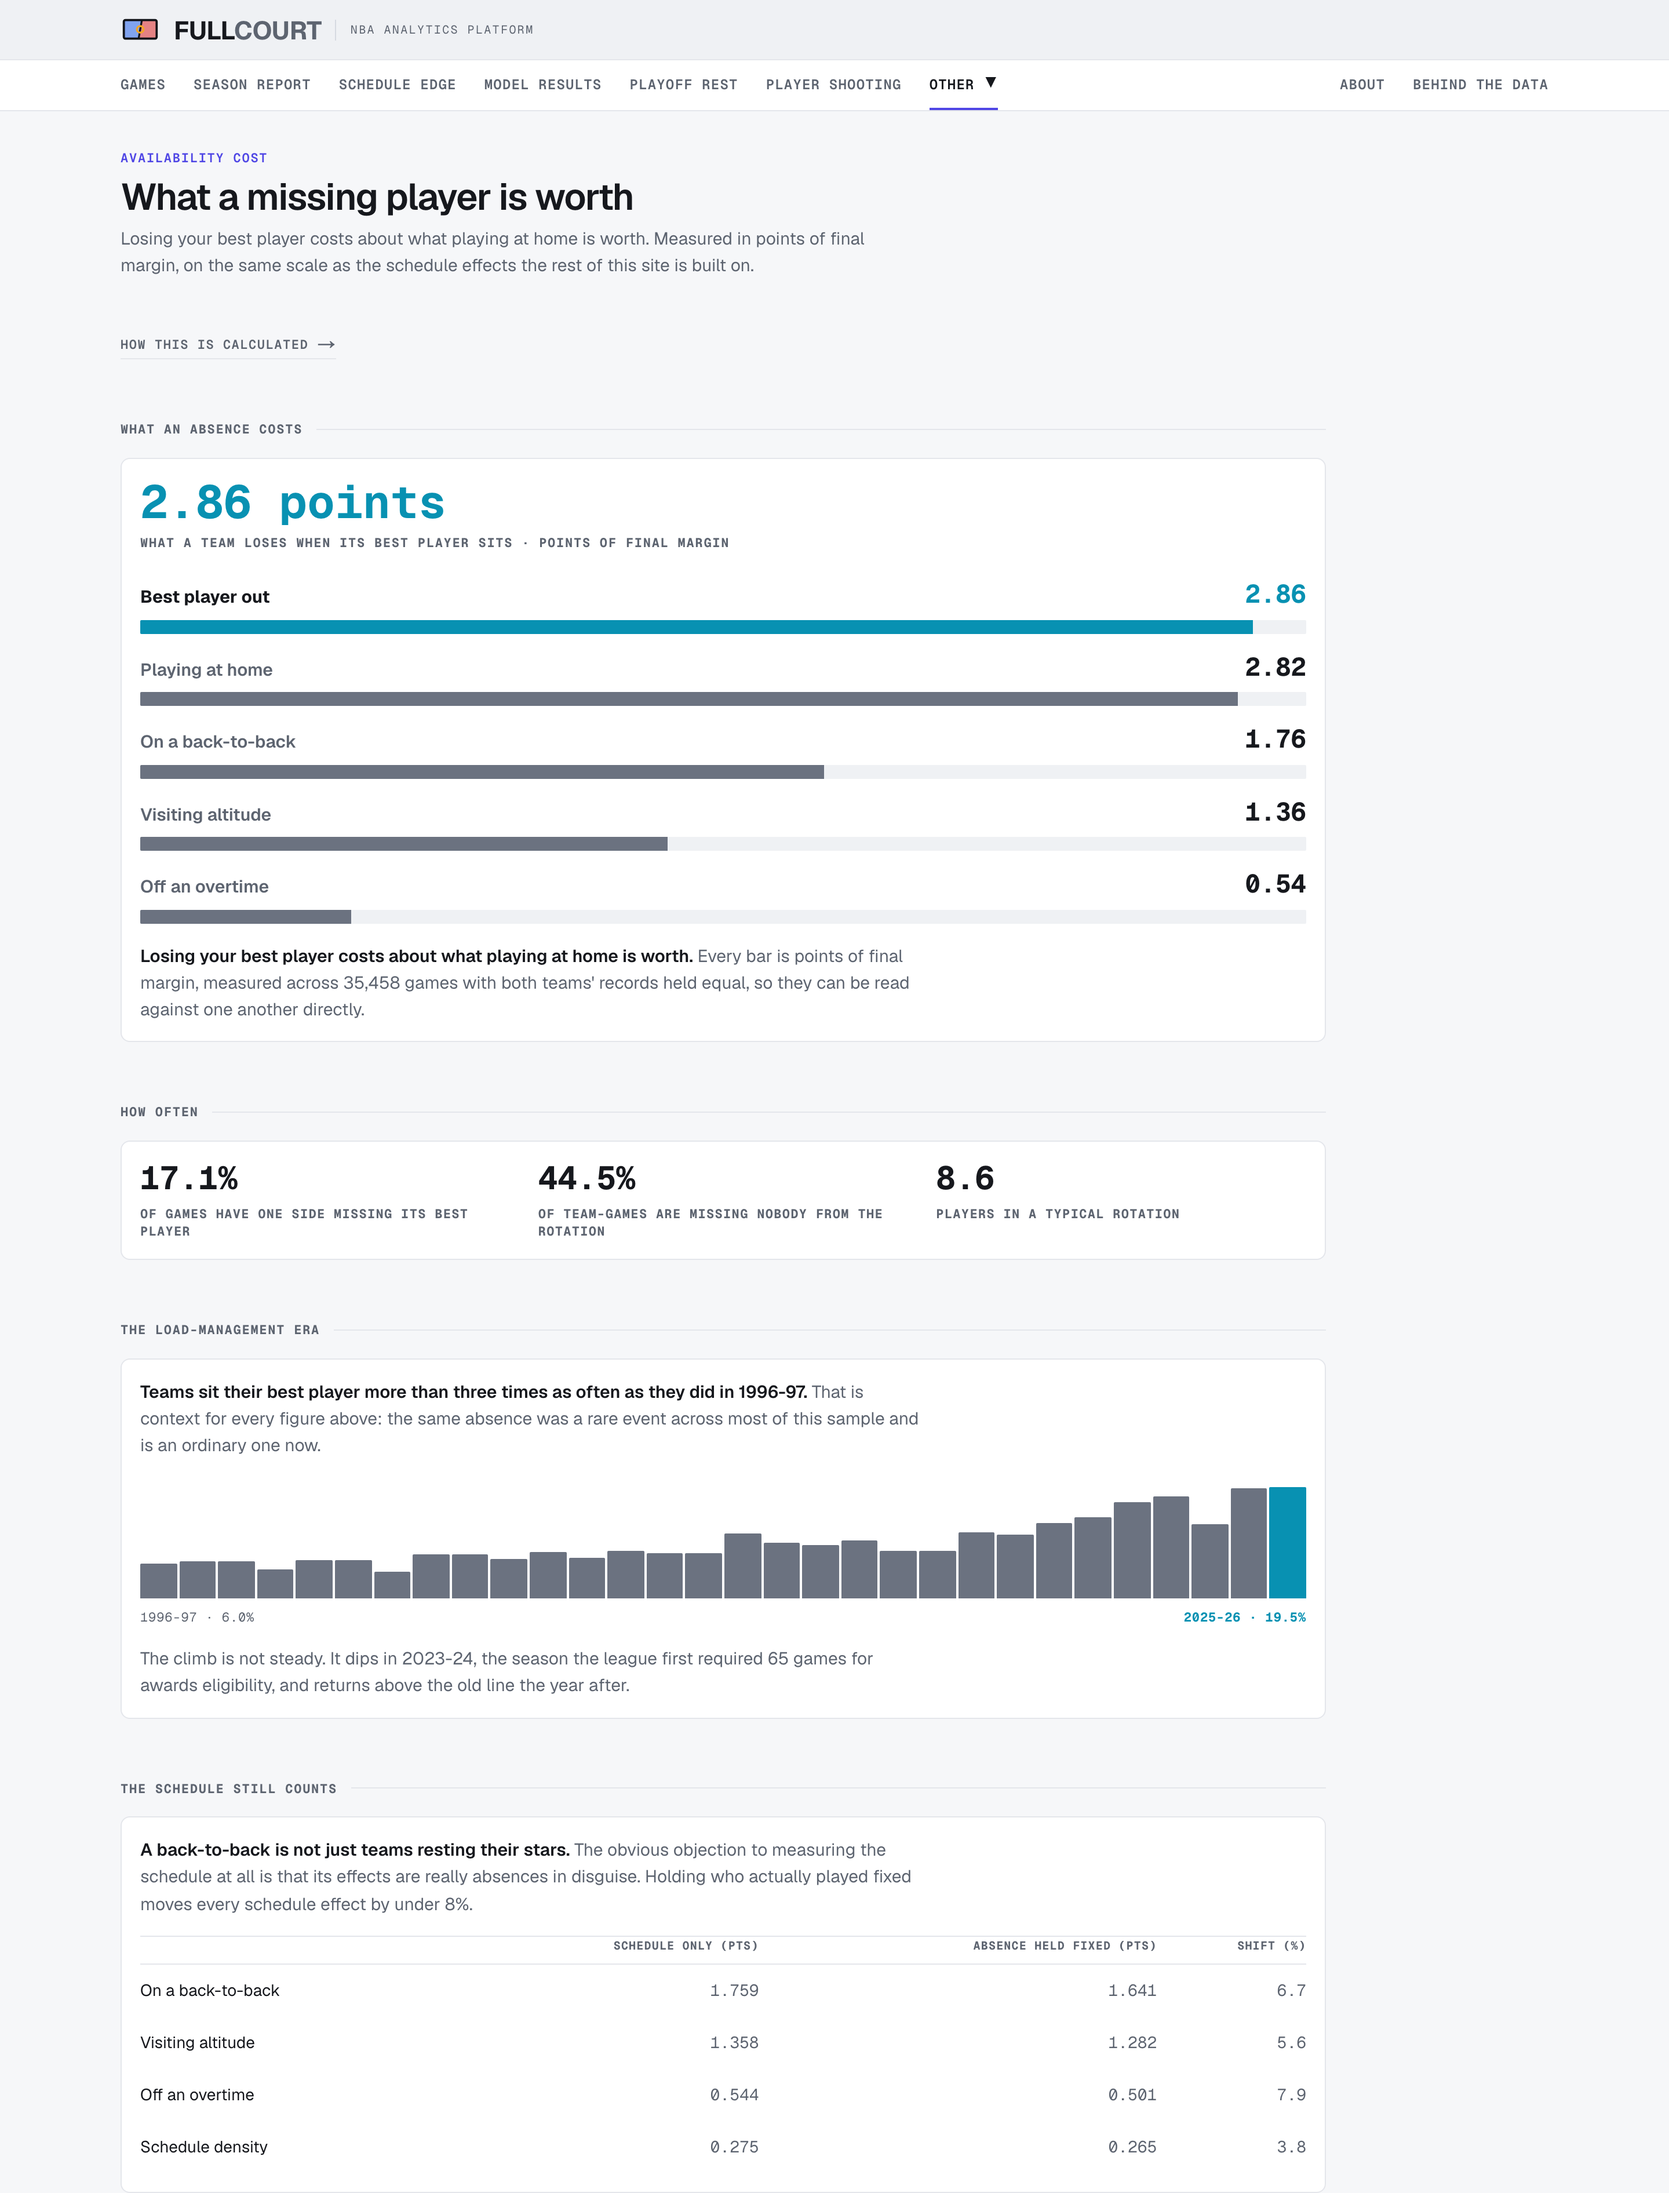
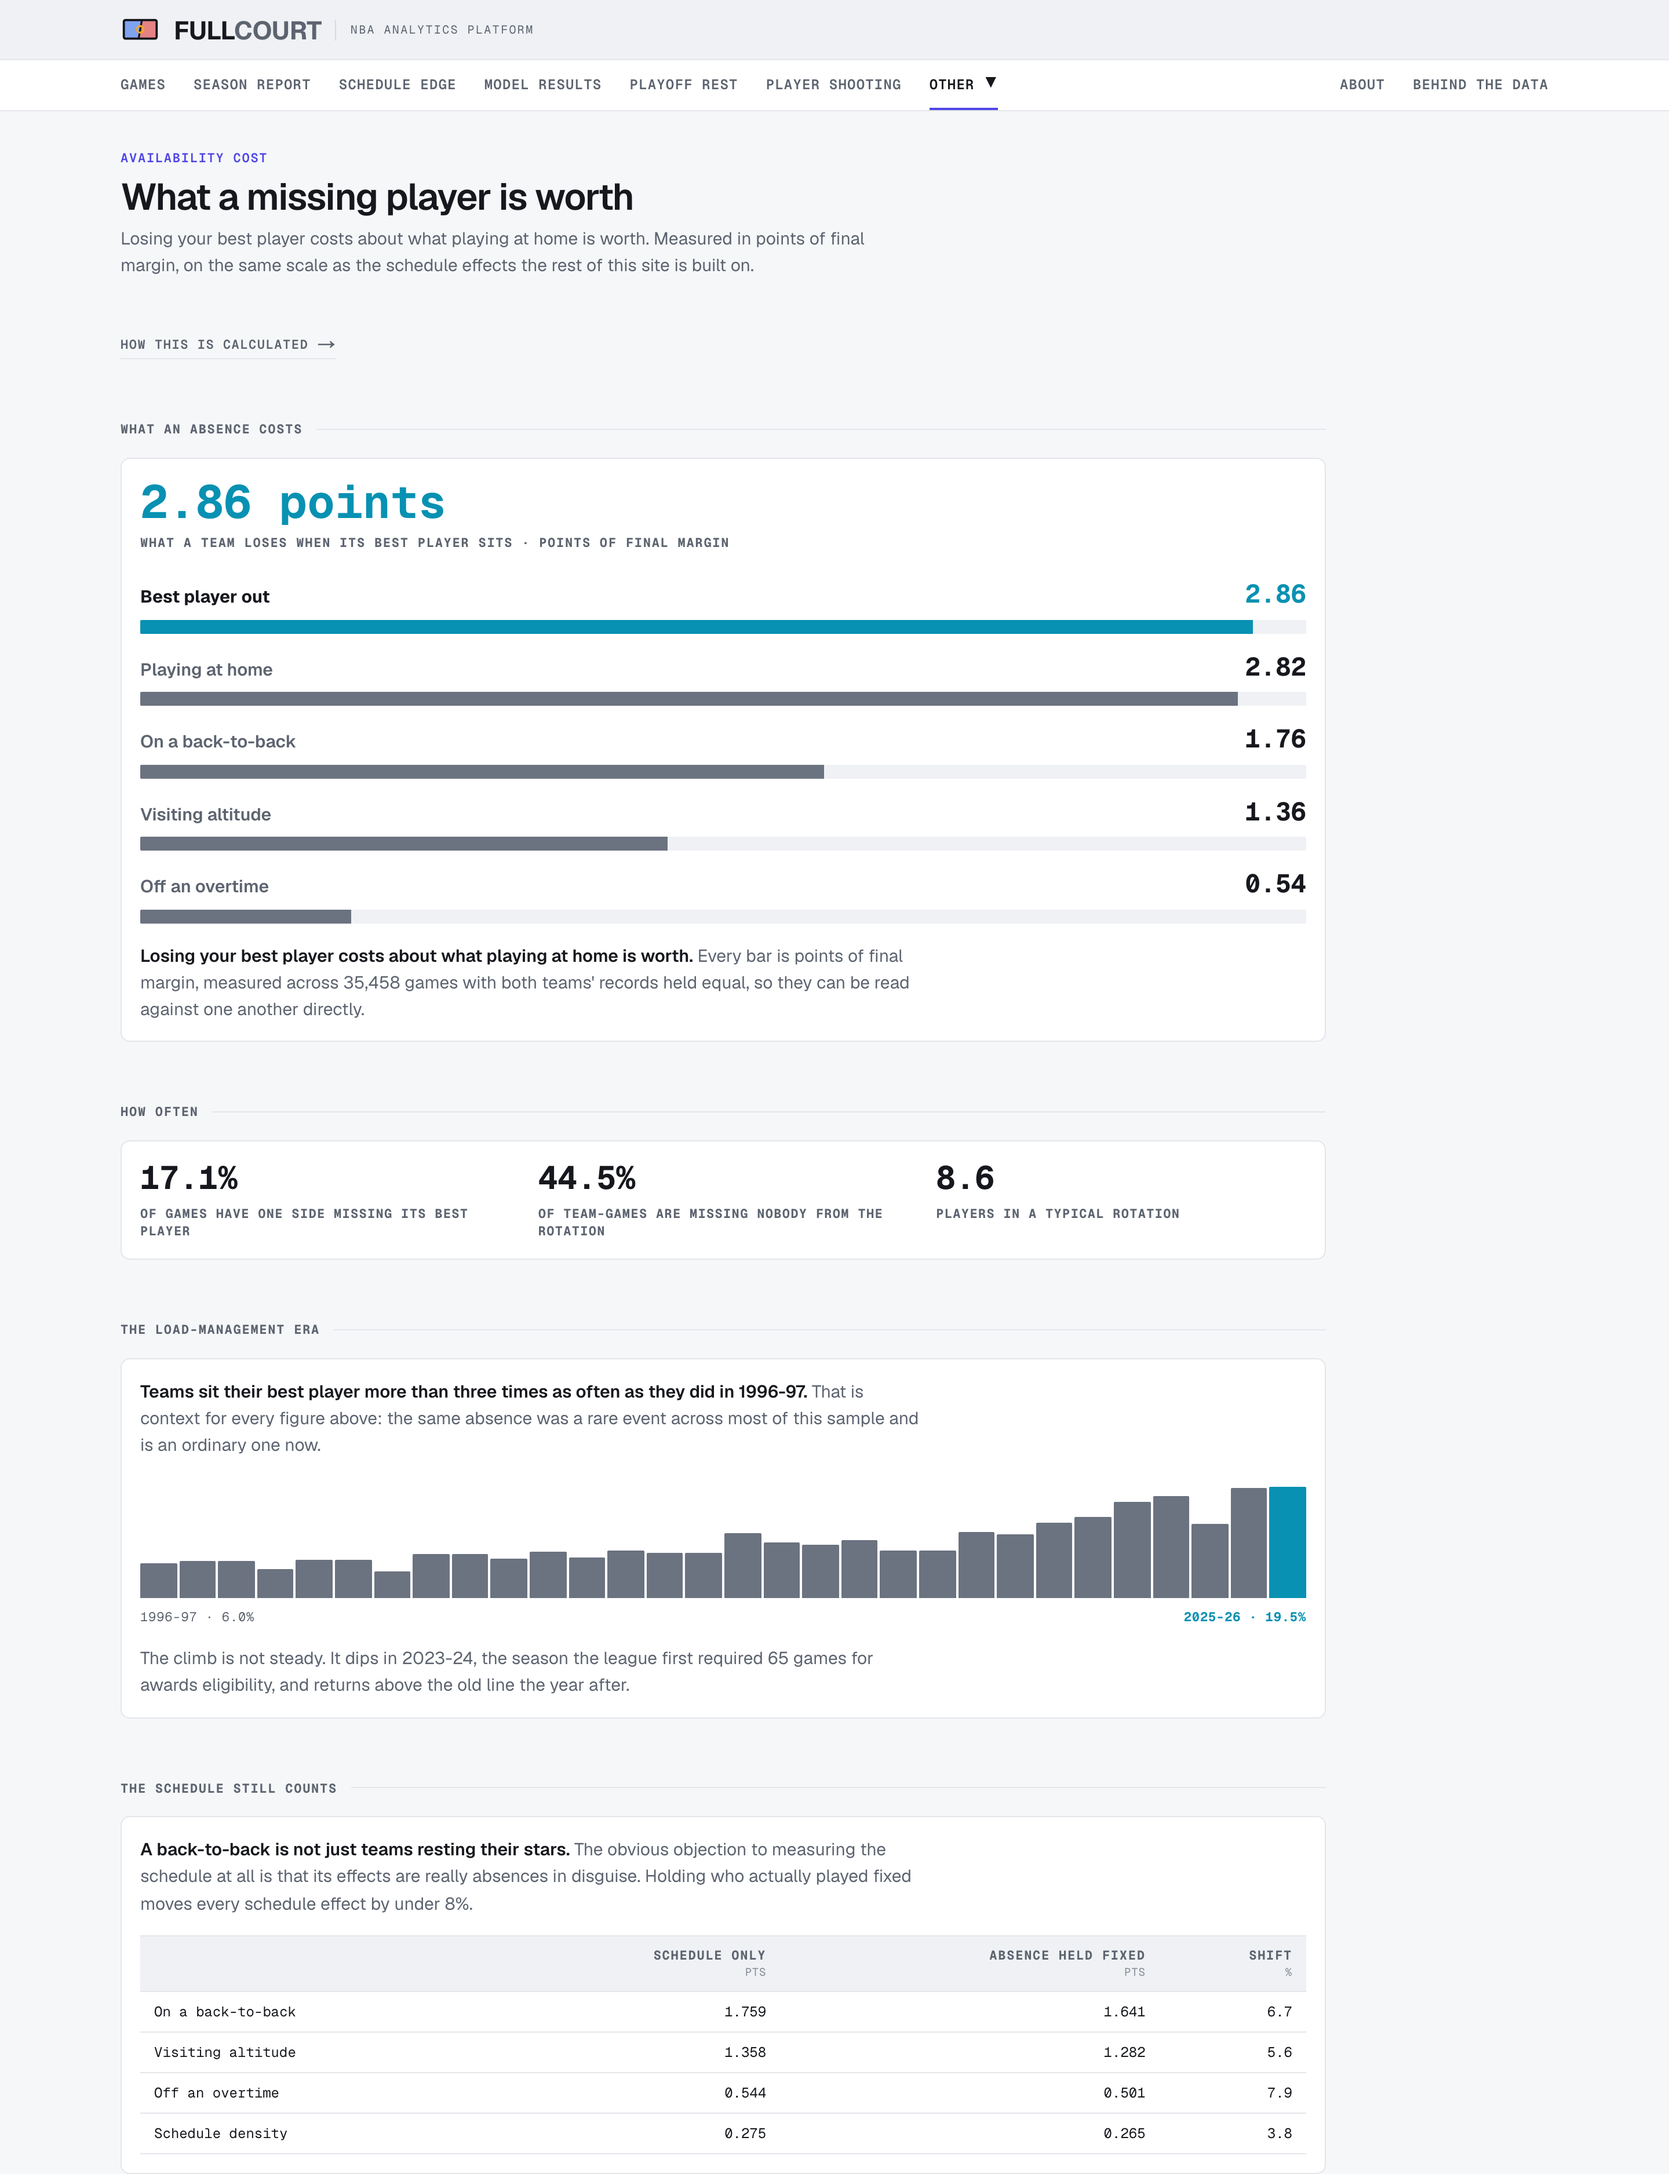
refactor: retire the last local cell style, and port the availability table
Two ends of the same problem.

analysis-content's `exploreTdBaseStyle` is gone entirely. It held
`padding: 8px 12px`, a bottom rule and `fontSize: 12` — byte-for-byte what
`.fc-table` and `termTdStyle` already gave every other table. Porting the row
cells left it alive for the three colSpan state rows; those now use the shared
style too, so the private copy is retired rather than reduced. That is the third
duplicate this pass has found, after `fatigueTones` and `TeamLogo`, and all three
came from the same cause: a convention with no module behind it invites a local
copy, because copying is cheaper than finding out what the shared thing is called.

availability-content is now one of the twenty-one. It carried `fc-table` and then
overrode every style that class and termThStyle/termTdStyle supply — 10px headers
with no band, 14px body cells, its own padding — so it opted into the convention
and out of all of it at once, which left it looking like nothing else on the site
while still inheriting whatever `.fc-table` changed underneath it. Ported
properly, on Michael's call that the visual change is wanted. Its two units moved
out of the labels and into the unit slot, which is the rule every other numeric
column already follows: "SCHEDULE ONLY (PTS)" is now SCHEDULE ONLY over PTS.

The availability capture height moved 1892 -> 1876 with the tighter rows and was
picked up automatically — the anchor-based script from earlier in this branch did
what the hand-derived heights could not.

diff --git a/src/components/availability-content.tsx b/src/components/availability-content.tsx
@@ -7,6 +7,7 @@ import {
   AVAILABILITY_SCHEDULE_HOLDS_UP,
 } from "@/lib/availability-facts"
 import { termCardStyle, WIDTH } from "@/lib/terminal-styles"
+import { DataTable } from "@/components/ui/data-table"
 
 const BODY: React.CSSProperties = {
   fontSize: 15,
@@ -292,56 +293,35 @@ function ScheduleHoldsUpSection() {
           under {Math.ceil(worst)}%.
         </p>
 
-        <div className="mt-4 overflow-x-auto">
-          <table className="fc-table w-full" style={{ borderCollapse: "collapse", minWidth: 420 }}>
-            <thead>
-              <tr>
-                {["", "SCHEDULE ONLY (PTS)", "ABSENCE HELD FIXED (PTS)", "SHIFT (%)"].map((h, i) => (
-                  <th
-                    key={h}
-                    className="mono"
-                    style={{
-                      fontSize: 10,
-                      letterSpacing: "0.06em",
-                      color: "var(--term-text-muted)",
-                      fontWeight: 700,
-                      textAlign: i === 0 ? "left" : "right",
-                      padding: "0 0 8px",
-                      borderBottom: "1px solid var(--term-border)",
-                    }}
-                  >
-                    {h}
-                  </th>
-                ))}
-              </tr>
-            </thead>
-            <tbody>
-              {rows.map((r) => (
-                <tr key={r.label}>
-                  <td style={{ fontSize: 14, color: "var(--term-text)", padding: "12px 0" }}>
-                    {r.label}
-                  </td>
-                  {[r.scheduleOnly.toFixed(3), r.absenceControlled.toFixed(3), r.shiftPct.toFixed(1)].map(
-                    (v, i) => (
-                      <td
-                        key={i}
-                        className="mono tabular-nums"
-                        style={{
-                          fontSize: 14,
-                          color: "var(--term-text-muted)",
-                          textAlign: "right",
-                          padding: "12px 0 12px 16px",
-                        }}
-                      >
-                        {v}
-                      </td>
-                    )
-                  )}
-                </tr>
-              ))}
-            </tbody>
-          </table>
-        </div>
+        {/* Ported to DataTable on 2026-08-11. It carried `fc-table` but overrode every style
+            that class and `termThStyle`/`termTdStyle` supply — 10px headers with no band,
+            14px body cells, its own padding — so it opted into the convention and then opted
+            out of all of it, which meant it looked like nothing else on the site while still
+            picking up whatever `.fc-table` changed underneath it. It now reads as one of the
+            twenty-one. The two units moved out of the labels and into the unit slot, which is
+            the house rule every other numeric column already follows. */}
+        <DataTable
+          wrapperClassName="mt-4 overflow-x-auto"
+          minWidth={420}
+          rows={rows}
+          rowKey={(r) => r.label}
+          columns={[
+            { label: "", cell: (r) => r.label },
+            {
+              label: "SCHEDULE ONLY",
+              unit: "PTS",
+              numeric: true,
+              cell: (r) => r.scheduleOnly.toFixed(3),
+            },
+            {
+              label: "ABSENCE HELD FIXED",
+              unit: "PTS",
+              numeric: true,
+              cell: (r) => r.absenceControlled.toFixed(3),
+            },
+            { label: "SHIFT", unit: "%", numeric: true, cell: (r) => r.shiftPct.toFixed(1) },
+          ]}
+        />
       </div>
     </section>
   )

diff --git a/src/components/analysis-content.tsx b/src/components/analysis-content.tsx
@@ -27,7 +27,7 @@ import type { ExploreResult } from "@/lib/explore-games-machine"
 import { apiFetcher } from "@/lib/fetcher"
 import { NBA_SEASONS } from "@/lib/nba-season"
 import { homeWinRateWhenVisitorRested } from "@/lib/rest-advantage-display"
-import { MONO_FONT_STACK, termCardStyle, termDashedEmptyStyle, termInsetStyle } from "@/lib/terminal-styles"
+import { MONO_FONT_STACK, termCardStyle, termDashedEmptyStyle, termInsetStyle, termTdStyle } from "@/lib/terminal-styles"
 import { DataTable } from "@/components/ui/data-table"
 import type { AnalysisResponse } from "@/types"
 import { signedNumber } from "@/lib/signed-number"
@@ -53,12 +53,6 @@ const exploreSelectStyle: React.CSSProperties = {
   fontFamily: MONO_FONT_STACK,
   color: "var(--term-text)",
   letterSpacing: "0.04em",
-}
-
-const exploreTdBaseStyle: React.CSSProperties = {
-  padding: "8px 12px",
-  borderBottom: "1px solid var(--term-border)",
-  fontSize: 12,
 }
 
 // ─── Section divider ──────────────────────────────────────────────
@@ -502,9 +496,11 @@ function ExploreGames({
       </div>
 
       {/* Table */}
-      {/* Table. `exploreTdBaseStyle` used to live here as a local copy of the shared cell
-          style — same padding, same rule, same size — which is what a convention with no module
-          behind it produces. */}
+      {/* Table. A local `exploreTdBaseStyle` const used to sit above this file holding
+          `padding: 8px 12px`, a bottom rule and `fontSize: 12` — byte-for-byte what `.fc-table`
+          and `termTdStyle` already gave every other table. A private copy of the shared style
+          is what a convention with no module behind it produces; the state rows below use the
+          shared one. */}
       <DataTable
         wrapperClassName="mt-3 overflow-x-auto"
         rows={loading || error || results.length === 0 ? [] : results}
@@ -608,7 +604,7 @@ function ExploreGames({
         {loading ? (
           Array.from({ length: 5 }).map((_, i) => (
             <tr key={i}>
-              <td colSpan={7} style={{ ...exploreTdBaseStyle, padding: 12 }}>
+              <td colSpan={7} style={{ ...termTdStyle, padding: 12 }}>
                 <Skeleton
                   className="h-4 w-full bg-[var(--term-surface-2)]"
                   style={{ borderRadius: "var(--term-radius-sm)" }}
@@ -618,13 +614,13 @@ function ExploreGames({
           ))
         ) : error ? (
           <tr>
-            <td colSpan={7} style={{ ...exploreTdBaseStyle, textAlign: "center", color: "var(--term-red)", padding: 24 }}>
+            <td colSpan={7} style={{ ...termTdStyle, textAlign: "center", color: "var(--term-red)", padding: 24 }}>
               {error}
             </td>
           </tr>
         ) : results.length === 0 ? (
           <tr>
-            <td colSpan={7} style={{ ...exploreTdBaseStyle, textAlign: "center", color: "var(--term-text-muted)", padding: 24 }}>
+            <td colSpan={7} style={{ ...termTdStyle, textAlign: "center", color: "var(--term-text-muted)", padding: 24 }}>
               NO GAMES MATCH THE CURRENT FILTERS
             </td>
           </tr>
